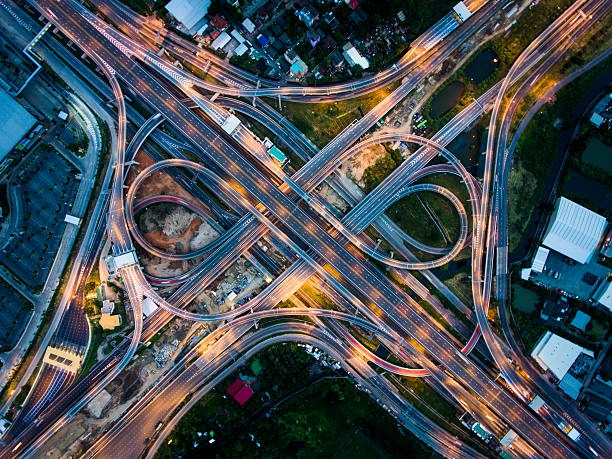
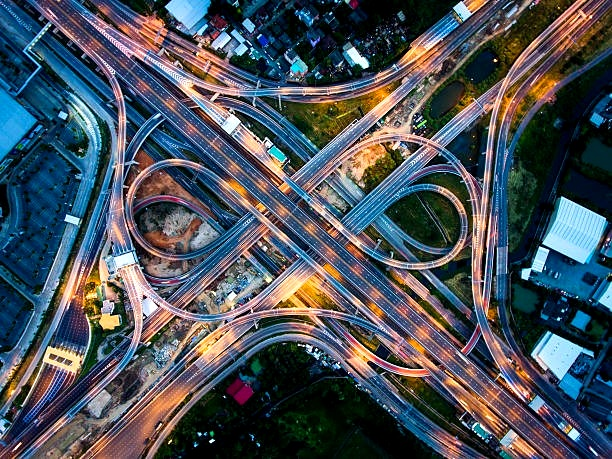
feat(login): apply enhanced highway interchange backdrop to login role portal with frosted cards

diff --git a/frontend/login.html b/frontend/login.html
@@ -56,6 +56,18 @@
       background-repeat: no-repeat;
     }
 
+    /* Login Portal Hero Section Background (Highway Interchange with Frosted Atmospheric Overlay) */
+    .login-interchange-bg {
+      position: relative;
+      background-color: #f1f5f9;
+      background-image: 
+        linear-gradient(180deg, rgba(255, 255, 255, 0.84) 0%, rgba(248, 250, 252, 0.76) 50%, rgba(241, 245, 249, 0.90) 100%),
+        url('/static/assets/login_interchange_bg.jpg');
+      background-size: cover;
+      background-position: center center;
+      background-repeat: no-repeat;
+    }
+
     /* National Emergency Helplines Section Backdrop (Sea Link Suspension Bridge Sunset Panorama) */
     .emergency-helpline-bg {
       background-color: #f1f5f9;
@@ -66,18 +78,6 @@
       background-position: center 38%;
       background-repeat: no-repeat;
       position: relative;
-    }
-
-    /* Select Your Portal / Role Gateway Section Background (Aerial Interchange Flyover) */
-    .gateway-portal-bg {
-      position: relative;
-      background-color: #f1f5f9;
-      background-image: 
-        linear-gradient(180deg, rgba(255, 255, 255, 0.82) 0%, rgba(248, 250, 252, 0.78) 40%, rgba(241, 245, 249, 0.88) 100%),
-        url('/static/assets/gateway_interchange_bg.jpg');
-      background-size: cover;
-      background-position: center center;
-      background-repeat: no-repeat;
     }
   </style>
 </head>
@@ -120,19 +120,19 @@
     </div>
   </header>
 
-  <!-- Hero & Gateway Section -->
-  <main class="gateway-portal-bg px-6 py-14 flex-1 flex flex-col justify-center border-b border-slate-200/80">
-    <div class="max-w-6xl mx-auto w-full">
+  <!-- Hero & Gateway Section (with Night Highway Interchange Backdrop) -->
+  <div class="login-interchange-bg border-b border-slate-300">
+    <main class="max-w-6xl mx-auto px-6 py-14 flex-1 flex flex-col justify-center">
 
       <!-- Title Section -->
       <div class="text-center max-w-3xl mx-auto mb-12">
-        <div class="inline-flex items-center gap-2 px-3.5 py-1.5 rounded-full bg-white/90 backdrop-blur-md border border-slate-200 shadow-xs text-black text-xs font-bold mb-4">
+        <div class="inline-flex items-center gap-2 px-3.5 py-1.5 rounded-full bg-white/90 backdrop-blur-md border border-white/80 shadow-xs text-black text-xs font-bold mb-4">
           <i data-lucide="sparkles" class="w-3.5 h-3.5 text-amber-500"></i> Single-Sign-On & Public Reporting Gateway
         </div>
-        <h2 class="text-3xl sm:text-4xl font-black text-black tracking-tight leading-tight">
+        <h2 class="text-3xl sm:text-4xl font-black text-slate-900 tracking-tight leading-tight">
           National Road Infrastructure Intelligence & Safety Gateway
         </h2>
-        <p class="text-sm sm:text-base text-slate-700 font-medium mt-3">
+        <p class="text-sm sm:text-base text-slate-700 font-semibold mt-3">
           Select your role below. Citizens can report road hazards and waterlogging directly without login, while authorized officials access the AI Command Center.
         </p>
       </div>
@@ -141,7 +141,7 @@
       <div class="grid grid-cols-1 md:grid-cols-2 gap-8 max-w-5xl mx-auto w-full">
 
         <!-- 1. CITIZEN CARD -->
-        <div class="nhai-card bg-white/92 backdrop-blur-md p-8 flex flex-col justify-between relative overflow-hidden text-black border-l-6 border-l-[#138808] shadow-md hover:shadow-xl transition-all duration-300">
+        <div class="nhai-card bg-white/88 hover:bg-white/96 backdrop-blur-xl border border-white/85 p-8 flex flex-col justify-between relative overflow-hidden text-black border-l-6 border-l-[#138808] shadow-xl hover:shadow-2xl transition-all duration-300">
           <div>
             <div class="flex items-center justify-between mb-6">
               <div class="w-14 h-14 rounded-2xl bg-emerald-50 border border-emerald-200 flex items-center justify-center shadow-xs">
@@ -186,92 +186,92 @@
         </div>
 
         <!-- 2. GOVERNMENT OFFICIAL CARD -->
-        <div class="nhai-card bg-white/92 backdrop-blur-md p-8 flex flex-col justify-between relative overflow-hidden text-black border-l-6 border-l-[#FF9933] shadow-md hover:shadow-xl transition-all duration-300">
-        <div>
-          <div class="flex items-center justify-between mb-6">
-            <div class="w-14 h-14 rounded-2xl bg-orange-50 border border-orange-200 flex items-center justify-center shadow-xs">
-              <i data-lucide="building-2" class="w-7 h-7 text-orange-700"></i>
+        <div class="nhai-card bg-white/88 hover:bg-white/96 backdrop-blur-xl border border-white/85 p-8 flex flex-col justify-between relative overflow-hidden text-black border-l-6 border-l-[#FF9933] shadow-xl hover:shadow-2xl transition-all duration-300">
+          <div>
+            <div class="flex items-center justify-between mb-6">
+              <div class="w-14 h-14 rounded-2xl bg-orange-50 border border-orange-200 flex items-center justify-center shadow-xs">
+                <i data-lucide="building-2" class="w-7 h-7 text-orange-700"></i>
+              </div>
+              <span class="px-3 py-1 rounded-full text-xs font-bold font-mono bg-orange-50 text-orange-950 border border-orange-300 shadow-xs">
+                RESTRICTED ACCESS
+              </span>
             </div>
-            <span class="px-3 py-1 rounded-full text-xs font-bold font-mono bg-orange-50 text-orange-950 border border-orange-300 shadow-xs">
-              RESTRICTED ACCESS
-            </span>
+
+            <h3 class="text-2xl font-black text-black mb-2 flex items-center gap-2">
+              <span>Government Authority Login</span> <span class="text-lg">🏛</span>
+            </h3>
+            <p class="text-xs sm:text-sm text-slate-600 font-medium leading-relaxed mb-6">
+              For NHAI Highway Engineers, State PWD Officers, Smart City ICCC Commanders, and Municipal Road Maintenance Teams.
+            </p>
+
+            <!-- Department Selector & Credentials Form -->
+            <form id="gov-login-form" onsubmit="handleGovLogin(event)" class="space-y-3.5 mb-6">
+              <div>
+                <label class="block text-xs font-bold text-black mb-1">Department / Organization:</label>
+                <select id="gov-dept" class="w-full bg-white border border-slate-300 rounded-xl px-3.5 py-2.5 text-xs text-black font-semibold focus:outline-none focus:border-orange-500">
+                  <option value="nhai">NHAI — National Highways Authority of India</option>
+                  <option value="morth">MoRTH — Ministry of Road Transport & Highways</option>
+                  <option value="pwd_ka">Karnataka State PWD (Bengaluru Division)</option>
+                  <option value="pwd_mh">Maharashtra PWD / BMC Smart City</option>
+                  <option value="pwd_dl">Delhi NCR PWD / ITMS Command</option>
+                  <option value="pwd_tn">Tamil Nadu Highways Dept (Chennai)</option>
+                  <option value="pwd_ts">Telangana Roads & Buildings (Hyderabad)</option>
+                  <option value="smart_city">Smart City Integrated Command & Control (ICCC)</option>
+                </select>
+              </div>
+
+              <div class="grid grid-cols-2 gap-3">
+                <div>
+                  <label class="block text-xs font-bold text-black mb-1">Officer Badge ID:</label>
+                  <input type="text" id="officer-id" value="NHAI-ENG-8429" placeholder="e.g. NHAI-7740" class="w-full bg-white border border-slate-300 rounded-xl px-3.5 py-2 text-xs text-black font-mono font-bold focus:outline-none focus:border-orange-500">
+                </div>
+                <div>
+                  <label class="block text-xs font-bold text-black mb-1">Security PIN / Token:</label>
+                  <input type="password" id="officer-pin" value="••••••••" placeholder="Security PIN" class="w-full bg-white border border-slate-300 rounded-xl px-3.5 py-2 text-xs text-black font-mono font-bold focus:outline-none focus:border-orange-500">
+                </div>
+              </div>
+
+              <div class="flex items-center gap-2 pt-1">
+                <button type="button" onclick="quickDemoLogin('nhai')" class="text-[11px] bg-slate-100 hover:bg-slate-200 border border-slate-300 text-black font-bold px-3 py-1 rounded-lg transition-colors cursor-pointer shadow-xs">
+                  ⚡ NHAI Engineer Demo
+                </button>
+                <button type="button" onclick="quickDemoLogin('pwd')" class="text-[11px] bg-slate-100 hover:bg-slate-200 border border-slate-300 text-black font-bold px-3 py-1 rounded-lg transition-colors cursor-pointer shadow-xs">
+                  ⚡ State PWD Demo
+                </button>
+              </div>
+
+              <button type="submit" class="w-full py-4 px-6 rounded-xl bg-[#FF9933] hover:bg-[#F28500] border border-amber-600 text-black font-black text-sm flex items-center justify-center gap-2.5 shadow-xs transition-colors mt-4 cursor-pointer">
+                <i data-lucide="shield-check" class="w-4 h-4"></i>
+                <span>Access AI Command Center</span>
+                <i data-lucide="arrow-right" class="w-4 h-4 ml-1"></i>
+              </button>
+            </form>
           </div>
 
-          <h3 class="text-2xl font-black text-black mb-2 flex items-center gap-2">
-            <span>Government Authority Login</span> <span class="text-lg">🏛</span>
-          </h3>
-          <p class="text-xs sm:text-sm text-slate-600 font-medium leading-relaxed mb-6">
-            For NHAI Highway Engineers, State PWD Officers, Smart City ICCC Commanders, and Municipal Road Maintenance Teams.
-          </p>
-
-          <!-- Department Selector & Credentials Form -->
-          <form id="gov-login-form" onsubmit="handleGovLogin(event)" class="space-y-3.5 mb-6">
-            <div>
-              <label class="block text-xs font-bold text-black mb-1">Department / Organization:</label>
-              <select id="gov-dept" class="w-full bg-white border border-slate-300 rounded-xl px-3.5 py-2.5 text-xs text-black font-semibold focus:outline-none focus:border-orange-500">
-                <option value="nhai">NHAI — National Highways Authority of India</option>
-                <option value="morth">MoRTH — Ministry of Road Transport & Highways</option>
-                <option value="pwd_ka">Karnataka State PWD (Bengaluru Division)</option>
-                <option value="pwd_mh">Maharashtra PWD / BMC Smart City</option>
-                <option value="pwd_dl">Delhi NCR PWD / ITMS Command</option>
-                <option value="pwd_tn">Tamil Nadu Highways Dept (Chennai)</option>
-                <option value="pwd_ts">Telangana Roads & Buildings (Hyderabad)</option>
-                <option value="smart_city">Smart City Integrated Command & Control (ICCC)</option>
-              </select>
-            </div>
-
-            <div class="grid grid-cols-2 gap-3">
-              <div>
-                <label class="block text-xs font-bold text-black mb-1">Officer Badge ID:</label>
-                <input type="text" id="officer-id" value="NHAI-ENG-8429" placeholder="e.g. NHAI-7740" class="w-full bg-white border border-slate-300 rounded-xl px-3.5 py-2 text-xs text-black font-mono font-bold focus:outline-none focus:border-orange-500">
-              </div>
-              <div>
-                <label class="block text-xs font-bold text-black mb-1">Security PIN / Token:</label>
-                <input type="password" id="officer-pin" value="••••••••" placeholder="Security PIN" class="w-full bg-white border border-slate-300 rounded-xl px-3.5 py-2 text-xs text-black font-mono font-bold focus:outline-none focus:border-orange-500">
-              </div>
-            </div>
-
-            <div class="flex items-center gap-2 pt-1">
-              <button type="button" onclick="quickDemoLogin('nhai')" class="text-[11px] bg-slate-100 hover:bg-slate-200 border border-slate-300 text-black font-bold px-3 py-1 rounded-lg transition-colors cursor-pointer shadow-xs">
-                ⚡ NHAI Engineer Demo
-              </button>
-              <button type="button" onclick="quickDemoLogin('pwd')" class="text-[11px] bg-slate-100 hover:bg-slate-200 border border-slate-300 text-black font-bold px-3 py-1 rounded-lg transition-colors cursor-pointer shadow-xs">
-                ⚡ State PWD Demo
-              </button>
-            </div>
-
-            <button type="submit" class="w-full py-4 px-6 rounded-xl bg-[#FF9933] hover:bg-[#F28500] border border-amber-600 text-black font-black text-sm flex items-center justify-center gap-2.5 shadow-xs transition-colors mt-4 cursor-pointer">
-              <i data-lucide="shield-check" class="w-4 h-4"></i>
-              <span>Access AI Command Center</span>
-              <i data-lucide="arrow-right" class="w-4 h-4 ml-1"></i>
-            </button>
-          </form>
+          <div class="border-t border-slate-100 pt-3">
+            <p class="text-[11px] text-slate-600 font-medium flex items-center justify-center gap-1.5">
+              <i data-lucide="lock" class="w-3.5 h-3.5 text-black"></i>
+              <span>Authorized GIS Triage, PWD Work Orders & Multimodal Inspection Access</span>
+            </p>
+          </div>
         </div>
 
-        <div class="border-t border-slate-100 pt-3">
-          <p class="text-[11px] text-slate-600 font-medium flex items-center justify-center gap-1.5">
-            <i data-lucide="lock" class="w-3.5 h-3.5 text-black"></i>
-            <span>Authorized GIS Triage, PWD Work Orders & Multimodal Inspection Access</span>
-          </p>
+      </div>
+
+      <!-- Live Platform Telemetry Bar -->
+      <div class="mt-12 max-w-5xl mx-auto w-full bg-white/90 backdrop-blur-xl border border-white/80 rounded-2xl p-4 flex flex-wrap items-center justify-between gap-4 text-xs font-bold text-black shadow-md">
+        <div class="flex items-center gap-2 text-slate-800">
+          <i data-lucide="zap" class="w-4 h-4 text-amber-500"></i>
+          <span><strong>Multimodal Fusion</strong>: 3-Axis IMU (Gz), Optical Edge/Depth, Tire Acoustic dB & Citizen Verification</span>
+        </div>
+        <div class="flex items-center gap-4 text-slate-800 font-mono">
+          <span>Curvature & Depth Accuracy: <strong class="text-blue-800">98.4%</strong></span>
+          <span>MoRTH Standard: <strong class="text-emerald-700">IRC:82-2015</strong></span>
         </div>
       </div>
 
-    </div>
-
-    <!-- Live Platform Telemetry Bar -->
-    <div class="mt-12 max-w-5xl mx-auto w-full bg-white border border-slate-200 rounded-2xl p-4 flex flex-wrap items-center justify-between gap-4 text-xs font-bold text-black shadow-xs">
-      <div class="flex items-center gap-2 text-slate-800">
-        <i data-lucide="zap" class="w-4 h-4 text-amber-500"></i>
-        <span><strong>Multimodal Fusion</strong>: 3-Axis IMU (Gz), Optical Edge/Depth, Tire Acoustic dB & Citizen Verification</span>
-      </div>
-      <div class="flex items-center gap-4 text-slate-800 font-mono">
-        <span>Curvature & Depth Accuracy: <strong class="text-blue-800">98.4%</strong></span>
-        <span>MoRTH Standard: <strong class="text-emerald-700">IRC:82-2015</strong></span>
-      </div>
-    </div>
-
-    </div>
-  </main>
+    </main>
+  </div>
 
   <!-- ==========================================
        GOVERNMENT OF INDIA HELPLINES & NOTIFICATION HUB

diff --git a/frontend/css/styles.css b/frontend/css/styles.css
@@ -259,18 +259,6 @@ code, pre, .font-mono {
   background-repeat: no-repeat;
 }
 
-/* Select Your Portal / Role Gateway Background (Illuminated Aerial Interchange Flyover) */
-.gateway-portal-bg {
-  position: relative;
-  background-color: #f1f5f9;
-  background-image: 
-    linear-gradient(180deg, rgba(255, 255, 255, 0.82) 0%, rgba(248, 250, 252, 0.78) 40%, rgba(241, 245, 249, 0.88) 100%),
-    url('../assets/gateway_interchange_bg.jpg');
-  background-size: cover;
-  background-position: center center;
-  background-repeat: no-repeat;
-}
-
 /* NHAI Card Design Reference: Clean, Minimal, Elevated */
 .nhai-card {
   background: #ffffff;
